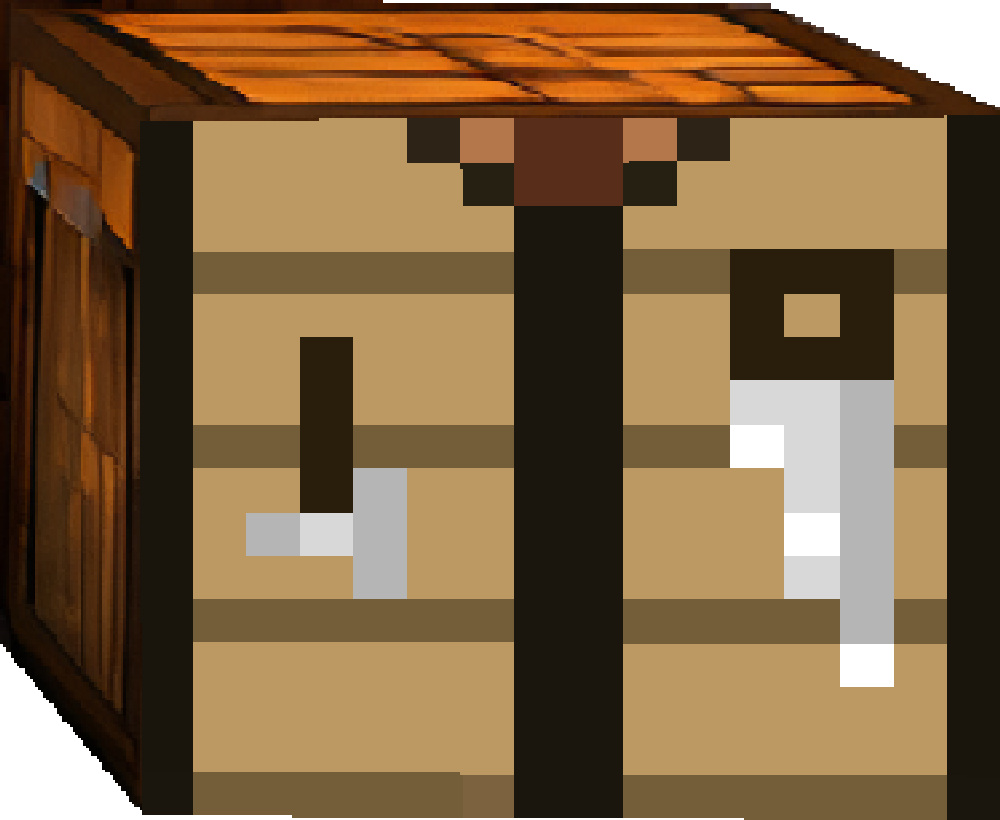
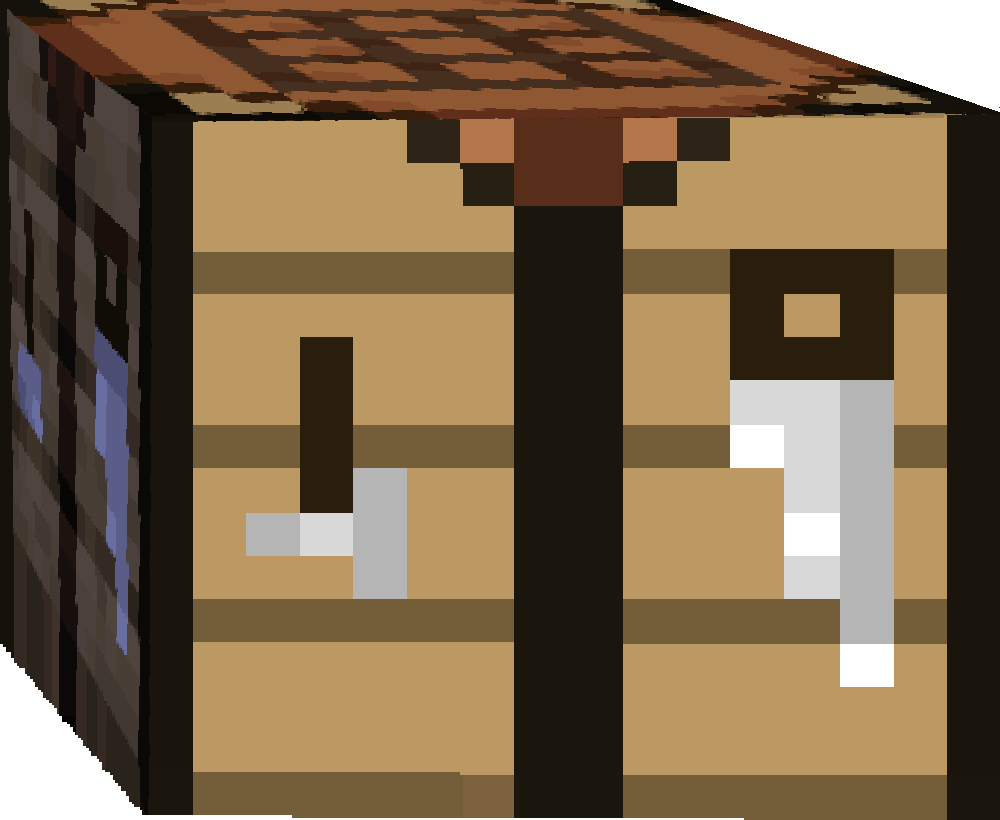
Homepage final version (aboutme.jsx) pre responsive

Changed region(s): [[0.0, 0.0, 1.0, 0.9756]]

diff --git a/src/pages/AboutMe.css b/src/pages/AboutMe.css
@@ -18,6 +18,12 @@
   height: 100vh;
   object-fit: cover;
   z-index: 1;
+  opacity: 0;
+  transition: opacity 1.5s ease-out; /* Background first */
+}
+
+.aboutme-background.appear {
+  opacity: 1;
 }
 
 /* Interactive Element Overlays */
@@ -25,19 +31,51 @@
   position: absolute;
   z-index: 2;
   cursor: pointer;
+  opacity: 0; /* Hidden initially */
+  transform: translateY(30px) scale(0.9);
 }
+
+.aboutme-items-container.appear .aboutme-interactive-wrapper {
+    animation: popInEmphasis 1.0s cubic-bezier(0.34, 1.56, 0.64, 1) forwards;
+}
+
+/* Staggered Delays for Blocks - Second */
+.aboutme-items-container.appear .chest-wrapper {
+    animation-delay: 0.8s;
+}
+
+.aboutme-items-container.appear .lecturn-wrapper {
+    animation-delay: 1.1s;
+}
+
+.aboutme-items-container.appear .crafting-wrapper {
+    animation-delay: 1.4s;
+}
+
+@keyframes popInEmphasis {
+    0% {
+        opacity: 0;
+        transform: translateY(50px) scale(0.8);
+    }
+    100% {
+        opacity: 1;
+        transform: translateY(0) scale(1);
+    }
+}
+
 
 .aboutme-overlay {
   position: relative;
   width: 100%;
   height: auto;
   display: block;
-  transition: transform 0.2s ease, filter 0.2s ease;
+  transition: transform 0.3s cubic-bezier(0.4, 0, 0.2, 1), filter 0.3s ease;
+  filter: drop-shadow(0 4px 6px rgba(0,0,0,0.3));
 }
 
 .aboutme-overlay:hover {
-  transform: scale(1.05);
-  filter: brightness(1.2);
+  transform: scale(1.1) translateY(-5px);
+  filter: brightness(1.2) drop-shadow(0 15px 15px rgba(0,0,0,0.4));
 }
 
 /* Glassmorphism Labels */
@@ -55,8 +93,7 @@
   font-size: 14px;
   text-shadow: 1px 1px 2px rgba(0, 0, 0, 0.5);
   pointer-events: none;
-  opacity: 1;
-  transition: opacity 0.3s ease;
+  opacity: 1; /* Visible inside parent immediately */
   white-space: nowrap;
 }
 
@@ -76,7 +113,6 @@
 
 .aboutme-interactive-wrapper {
   position: relative;
-  /* Resetting unwanted absolute properties if any leaked */
   bottom: auto;
   left: auto;
   right: auto;
@@ -118,6 +154,12 @@
   height: auto;
   z-index: 2;
   cursor: pointer;
+  opacity: 0;
+  transition: opacity 1.5s ease-out 3.0s; /* Rest comes in later */
+}
+
+.aboutme-dog.appear {
+  opacity: 1;
 }
 
 /* Controls */
@@ -126,6 +168,12 @@
   bottom: 20px;
   right: 20px;
   z-index: 20;
+  opacity: 0;
+  transition: opacity 1s ease-out 3.8s;
+}
+
+.aboutme-controls.appear {
+  opacity: 1;
 }
 
 .pixel-button {
@@ -146,36 +194,51 @@
 .aboutme-resume-wrapper {
   position: absolute;
   top: 20%;
-  right: 15%;
+  right: 17%;
   z-index: 20;
   cursor: pointer;
-  transition: transform 0.2s ease;
+  transition: transform 0.2s ease, opacity 1.5s ease-out 3.2s;
   display: flex;
   justify-content: center;
   align-items: center;
-  width: 150px; /* Adjust based on sign image aspect ratio */
+  width: 100px; /* Reduced size */
   height: auto;
+  opacity: 0;
 }
 
-.aboutme-resume-wrapper:hover {
-  transform: scale(1.05) rotate(-2deg);
+.aboutme-resume-wrapper.appear {
+    opacity: 1;
 }
 
 .aboutme-sign-img {
   width: 100%;
   height: auto;
   filter: drop-shadow(4px 4px 0px rgba(0,0,0,0.5));
+  transition: transform 0.2s ease
+}
+
+.aboutme-sign-img:hover {
+  transform: scale(1.05);
 }
 
 .aboutme-resume-text {
   position: absolute;
-  top: 45%; 
+  top: -40px; /* Moved higher to clear the image with padding */
   left: 50%;
-  transform: translate(-50%, -50%);
+  transform: translateX(-50%);
+  
+  /* Glassmorphism Style Matching .aboutme-label */
+  background: rgba(255, 255, 255, 0.1);
+  backdrop-filter: blur(10px);
+  -webkit-backdrop-filter: blur(10px);
+  border: 1px solid rgba(255, 255, 255, 0.2);
+  border-radius: 8px;
+  padding: 8px 16px;
+  
   font-family: 'Minecraft-Regular', monospace;
-  color: #3f2a14; /* Dark wood color for text contrast */
-  font-size: 18px;
-  text-shadow: 1px 1px 0px rgba(255,255,255,0.2);
+  color: #ffffff;
+  font-size: 14px;
+  text-shadow: 1px 1px 2px rgba(0, 0, 0, 0.5);
   pointer-events: none;
   white-space: nowrap;
 }
@@ -197,15 +260,30 @@
 .aboutme-fireplace {
   position: absolute;
   top: 47%;
-  right: 16%; /* Adjust distance from right edge as needed */
+  right: 16%;
   transform: translateY(-50%);
   width: auto;
   height: auto;
   height: 20vh;
-  max-height: 40vh; /* Prevent it from being too huge */
+  max-height: 40vh;
   z-index: 10;
   pointer-events: none;
   filter: brightness(0.8);
+  opacity: 0;
+  transition: opacity 2s ease-out 3.0s; /* Rest comes in later */
+}
+
+.aboutme-fireplace.appear {
+    opacity: 1;
+}
+
+.aboutme-fire-effects {
+    opacity: 0;
+    transition: opacity 2s ease-out 3.0s;
+}
+
+.aboutme-fire-effects.appear {
+    opacity: 1;
 }
 
 @media (max-width: 1024px) {

diff --git a/src/pages/AboutMe.jsx b/src/pages/AboutMe.jsx
@@ -21,7 +21,7 @@ import chestOpenSound from '@/assets/audio/chest_open.ogg';
 import chestCloseSound from '@/assets/audio/chest_close.ogg';
 import RoomAtmosphere from '../components/RoomAtmosphere';
 import resumePdf from '@/assets/resume.pdf';
-import sign from '@/assets/about_me/about_me_sign.png';
+import sign from '@/assets/about_me/item_frame.png';
 
 const projectsData = [
     {
@@ -100,6 +100,13 @@ export default function AboutMe() {
         return musicTracks[Math.floor(Math.random() * musicTracks.length)];
     }, []);
 
+    const [isLoaded, setIsLoaded] = useState(false);
+
+    useEffect(() => {
+        const timer = setTimeout(() => setIsLoaded(true), 100);
+        return () => clearTimeout(timer);
+    }, []);
+
     // Audio volume and playback management based on state
     useEffect(() => {
         if (sfxRef.current) {
@@ -174,7 +181,7 @@ export default function AboutMe() {
                 <source src={selectedMusic} type="audio/mpeg" />
             </audio>
 
-            <div className="aboutme-controls">
+            <div className={`aboutme-controls ${isLoaded ? 'appear' : ''}`}>
                 <button
                     className={`pixel-button ${isMusicOn ? 'active' : ''}`}
                     onClick={() => setIsMusicOn(!isMusicOn)}
@@ -186,21 +193,21 @@ export default function AboutMe() {
             <a
                 href={resumePdf}
                 download="Shaun_Resume.pdf"
-                className="aboutme-resume-wrapper"
+                className={`aboutme-resume-wrapper ${isLoaded ? 'appear' : ''}`}
             >
                 <img src={sign} alt="Resume Sign" className="aboutme-sign-img" />
                 <span className="aboutme-resume-text">RESUME</span>
             </a>
 
             <img
-                className="aboutme-background"
+                className={`aboutme-background ${isLoaded ? 'appear' : ''}`}
                 src={aboutBg}
                 alt="About Me Background"
             />
 
             <RoomAtmosphere />
 
-            <div className="aboutme-items-container">
+            <div className={`aboutme-items-container ${isLoaded ? 'appear' : ''}`}>
                 <div
                     className="aboutme-interactive-wrapper chest-wrapper"
                     onClick={() => {
@@ -264,7 +271,7 @@ export default function AboutMe() {
             </audio>
 
             <img
-                className="aboutme-dog"
+                className={`aboutme-dog ${isLoaded ? 'appear' : ''}`}
                 src={(isDogMoving || isDogHovered) ? dogGif : dogStill}
                 alt="Dog"
                 onMouseEnter={() => setIsDogHovered(true)}
@@ -279,24 +286,26 @@ export default function AboutMe() {
             />
 
             <img
-                className="aboutme-fireplace"
+                className={`aboutme-fireplace ${isLoaded ? 'appear' : ''}`}
                 src={fireplace}
                 alt="Fireplace"
             />
 
-            <FireplaceEffects
-                style={{
-                    top: '47%',
-                    right: '7%',
-                    left: 'auto',
-                    transform: 'translate(25%, -40%) scale(0.5)',
-                    width: '600px',
-                    height: '600px',
-                    opacity: 0.8,
-                    maskImage: 'radial-gradient(circle, rgba(0,0,0,1) 0%, rgba(0,0,0,1) 40%, rgba(0,0,0,0) 70%)',
-                    WebkitMaskImage: 'radial-gradient(circle, rgba(0,0,0,1) 0%, rgba(0,0,0,1) 40%, rgba(0,0,0,0) 70%)'
-                }}
-            />
+            <div className={`aboutme-fire-effects ${isLoaded ? 'appear' : ''}`}>
+                <FireplaceEffects
+                    style={{
+                        top: '47%',
+                        right: '7%',
+                        left: 'auto',
+                        transform: 'translate(25%, -40%) scale(0.5)',
+                        width: '600px',
+                        height: '600px',
+                        opacity: 0.8,
+                        maskImage: 'radial-gradient(circle, rgba(0,0,0,1) 0%, rgba(0,0,0,1) 40%, rgba(0,0,0,0) 70%)',
+                        WebkitMaskImage: 'radial-gradient(circle, rgba(0,0,0,1) 0%, rgba(0,0,0,1) 40%, rgba(0,0,0,0) 70%)'
+                    }}
+                />
+            </div>
 
             {/* Conditionally Rendered Components */}
             <AnimatePresence mode="wait">
